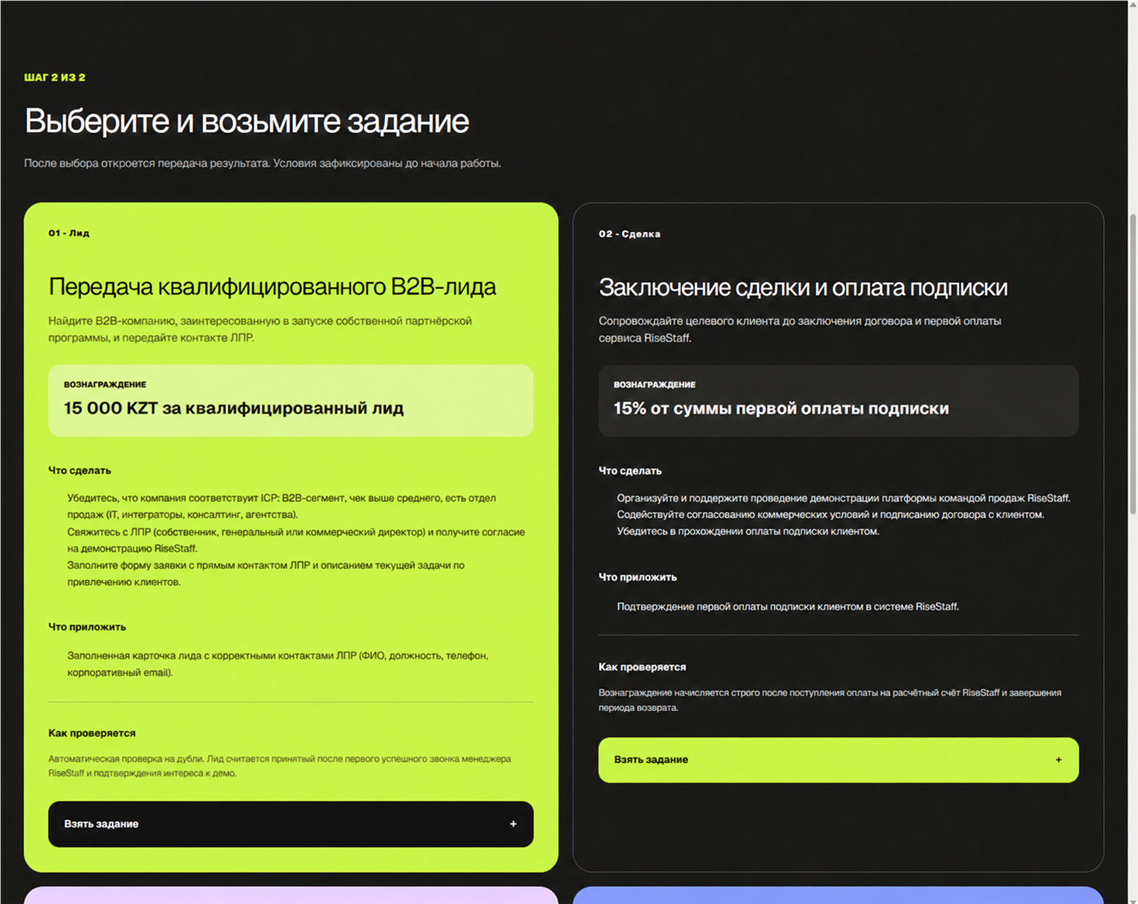
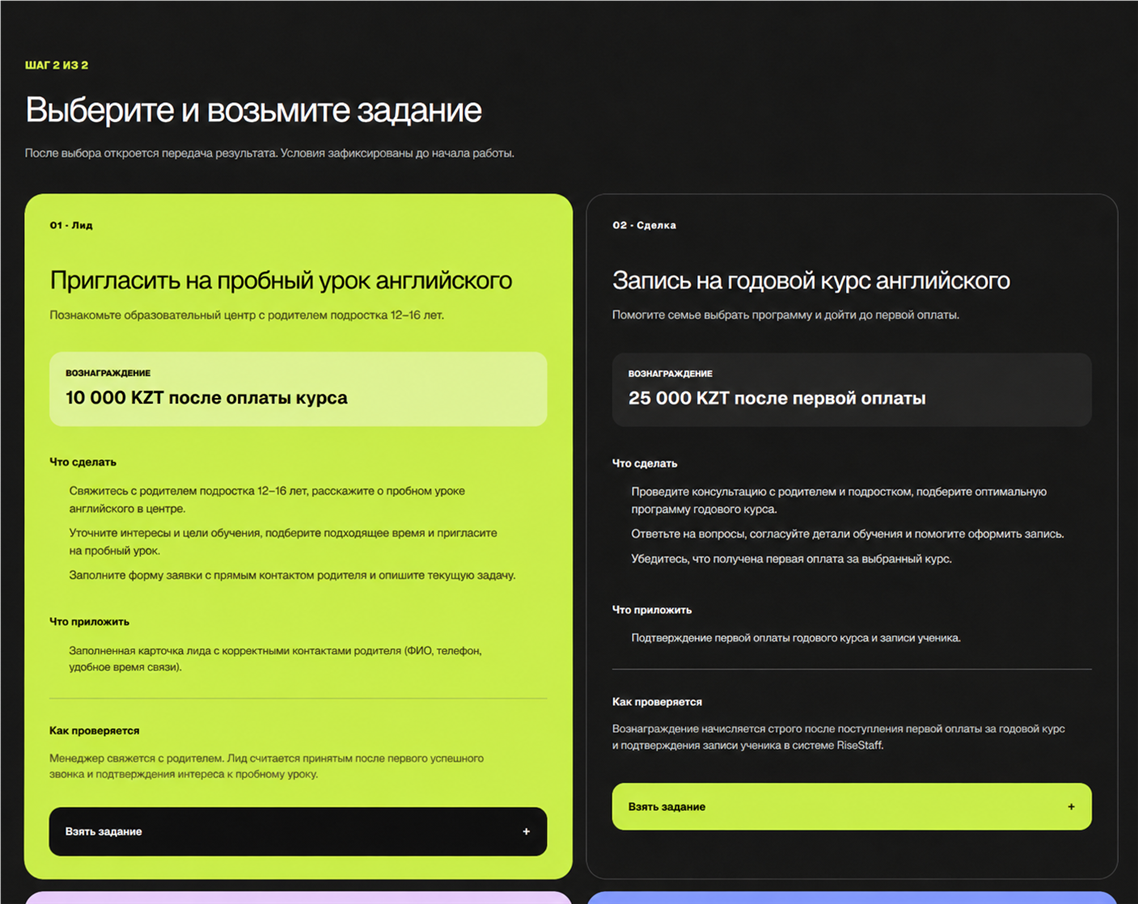
Refocus landing page on customer acquisition benefits

Changed region(s): [[0.0, 0.0, 1.0, 1.0], [0.0308, 0.6814, 0.4306, 0.7743]]

diff --git a/app/page.tsx b/app/page.tsx
@@ -8,9 +8,9 @@ import { CompanyApplicationForm } from "./company-application-form";
 import { agentUrl, companyUrl } from "../lib/public-origins";
 
 export const metadata: Metadata = {
-  title: { absolute: "RiseStaff — сервис для программы «приведи клиента»" },
+  title: { absolute: "RiseStaff — новые клиенты через рекомендации" },
   description:
-    "Назначьте вознаграждение за приведённого клиента. RiseStaff покажет, кто кого привёл, что стало с заявкой и сколько нужно выплатить.",
+    "Ваши клиенты и партнёры рекомендуют вас покупателям. Вы видите, кто привёл каждого клиента, что стало с заявкой и сколько нужно выплатить.",
   alternates: { canonical: "https://risestaff.kz/" },
 };
 
@@ -20,23 +20,23 @@ const missionCards = [
   {
     index: "01",
     type: "ЛИДЫ",
-    title: "Найдите компанию для внедрения CRM",
-    reward: "30 000 ₸ за встречу",
+    title: "Пригласите родителей на пробный урок",
+    reward: "10 000 ₸ за оплату курса",
     icon: "↗",
     tone: "lime",
   },
   {
     index: "02",
     type: "СДЕЛКИ",
-    title: "Приведите клиента до первой сделки",
-    reward: "10% от первой оплаты",
+    title: "Помогите записать ученика на годовой курс",
+    reward: "25 000 ₸ после первой оплаты",
     icon: "◎",
     tone: "dark",
   },
   {
     index: "03",
     type: "ИМИДЖ",
-    title: "Поделитесь кейсом в сообществе",
+    title: "Расскажите о курсе в родительском сообществе",
     reward: "5 000 ₸ после проверки",
     icon: "✦",
     tone: "blue",
@@ -44,8 +44,8 @@ const missionCards = [
   {
     index: "04",
     type: "ВОВЛЕЧЕНИЕ",
-    title: "Пройдите продуктовый квиз",
-    reward: "Откройте новые задания",
+    title: "Пригласите знакомых на открытый урок",
+    reward: "Бонус за участие",
     icon: "✓",
     tone: "paper",
   },
@@ -74,7 +74,7 @@ const faqs = [
   ],
   [
     "А если приведут клиента, который и так к нам шёл?",
-    "Вы решаете, принимать заявку или нет, и указываете причину. Правило можно написать заранее: например, не принимать компании, которые уже есть в вашей CRM.",
+    "Вы решаете, принимать заявку или нет, и указываете причину. Правило можно написать заранее: например, не засчитывать ученика, который уже оставил заявку в вашем центре.",
   ],
   [
     "А если посыпятся неподходящие заявки?",
@@ -114,7 +114,7 @@ const structuredData = {
       applicationCategory: "BusinessApplication",
       operatingSystem: "Web",
       inLanguage: "ru-KZ",
-      description: "Сервис для программы «приведи клиента — получи вознаграждение».",
+      description: "Помогает компаниям получать новых клиентов через рекомендации покупателей и партнёров.",
       featureList: [
         "Правила и вознаграждения за приведённых клиентов",
         "Кто привёл каждого клиента",
@@ -184,16 +184,15 @@ export default async function Home() {
         <div className="lp-orbit lp-orbit-two" aria-hidden="true" />
         <div className="lp-hero-copy">
           <div className="lp-kicker">
-            <span>●</span> СЕРВИС ДЛЯ ПРОГРАММЫ «ПРИВЕДИ КЛИЕНТА — ПОЛУЧИ ВОЗНАГРАЖДЕНИЕ»
+            <span>●</span> БОЛЬШЕ НОВЫХ КЛИЕНТОВ ИЗ ТЕХ, КТО УЖЕ ВАМ ДОВЕРЯЕТ
           </div>
           <h1>
-            Пусть ваши клиенты и партнёры приводят вам покупателей{" "}
-            <span className="lp-color-word">за вознаграждение.</span>
+            Превратите рекомендации в стабильный источник{" "}
+            <span className="lp-color-word">новых клиентов.</span>
           </h1>
           <p>
-            Один раз напишите, за какого клиента и сколько платите. Отправьте одну
-            ссылку своим людям. RiseStaff запомнит, кто кого привёл, что стало с заявкой
-            и сколько вы должны выплатить.
+            Ваши клиенты и партнёры рекомендуют вас знакомым. Вы получаете новые
+            контакты и сразу видите, кто привёл покупателя и сколько ему заплатить.
           </p>
           <p className="lp-hero-definition"><strong>Амбассадор</strong> — ваш клиент, партнёр или знакомый, который рекомендует вас подходящему покупателю.</p>
           <div
@@ -204,7 +203,7 @@ export default async function Home() {
               <b>ДЛЯ КОГО</b>Собственник, продажи и маркетинг
             </span>
             <span>
-              <b>ЧТО ПОЛУЧАЕТЕ</b>Заявки, сделки и суммы к выплате
+              <b>ЧТО ПОЛУЧАЕТЕ</b>Новых клиентов из уже знакомого круга
             </span>
           </div>
           <div className="lp-hero-actions">
@@ -213,7 +212,7 @@ export default async function Home() {
               href={dashboardHref}
               data-track="hero_primary"
             >
-              {user ? "Открыть кабинет" : "Запустить программу бесплатно"}
+              {user ? "Открыть кабинет" : "Запустить рекомендации бесплатно"}
               <span>↗</span>
             </a>
             <a className="lp-secondary" href="#how" data-track="hero_secondary">
@@ -225,13 +224,13 @@ export default async function Home() {
           </p>
           <div className="lp-hero-facts">
             <span>
-              <b>10</b> минут на черновик
+              <b>0 ₸</b> за отклонённые заявки
             </span>
             <span>
-              <b>0 ₸</b> аванс за заявки
+              <b>100%</b> решений остаются за вами
             </span>
             <span>
-              <b>1</b> ссылка для приглашённых
+              <b>1</b> список клиентов и выплат
             </span>
           </div>
         </div>
@@ -248,18 +247,18 @@ export default async function Home() {
           <div className="lp-demo-heading">
             <div>
               <small>ЗАЯВКА №14 · ПРИМЕР</small>
-              <h2>ТОО «Алтын Строй»</h2>
+              <h2>Образовательный центр Qadam</h2>
             </div>
             <span>НУЖНО РЕШЕНИЕ</span>
           </div>
           <div className="lp-lead-example">
             <dl>
-              <div><dt>Контакт</dt><dd>Асхат · +7 701 000 00 00</dd></div>
-              <div><dt>Кто привёл</dt><dd>Данияр Т. · ваш клиент</dd></div>
-              <div><dt>Что нужно</dt><dd>Внедрение CRM для отдела продаж</dd></div>
-              <div><dt>Сумма сделки</dt><dd>1 200 000 ₸</dd></div>
+              <div><dt>Контакт</dt><dd>Алия · +7 701 000 00 00</dd></div>
+              <div><dt>Кто привёл</dt><dd>Данияр Т. · родитель ученика</dd></div>
+              <div><dt>Что нужно</dt><dd>Годовой курс английского для подростка</dd></div>
+              <div><dt>Сумма сделки</dt><dd>600 000 ₸</dd></div>
             </dl>
-            <div><span>К ВЫПЛАТЕ ПО ВАШЕМУ ПРАВИЛУ</span><strong>120 000 ₸</strong></div>
+            <div><span>К ВЫПЛАТЕ ПО ВАШЕМУ ПРАВИЛУ</span><strong>25 000 ₸</strong></div>
             <nav aria-label="Действия с примером заявки"><button type="button">Не подходит</button><button type="button">Принять заявку</button></nav>
           </div>
           <div className="lp-demo-event">
@@ -332,16 +331,16 @@ export default async function Home() {
       <section className="lp-example lp-section" id="example">
         <div className="lp-section-intro">
           <span>ОДИН ПРИМЕР С ЦИФРАМИ</span>
-          <h2>Допустим, вы продаёте внедрение CRM за 1 200 000 ₸.</h2>
-          <p>Это пример расчёта, чтобы показать механику. Ваши суммы и правила могут быть другими.</p>
+          <h2>Допустим, образовательный центр продаёт годовой курс за 600 000 ₸.</h2>
+          <p>Центр хочет получать новых учеников через родителей, выпускников и преподавателей.</p>
         </div>
         <div className="lp-example-steps">
-          <article><b>01</b><h3>Написали правило</h3><p>«Приведи компанию, которая купит CRM. Платим 10% с первой оплаты».</p><strong>4 минуты</strong></article>
-          <article><b>02</b><h3>Отправили одну ссылку</h3><p>Клиентам, двум партнёрам и знакомому консультанту. Одно сообщение в WhatsApp.</p><strong>14 человек</strong></article>
+          <article><b>01</b><h3>Назначили вознаграждение</h3><p>«Приведи ученика на годовой курс. Платим 25 000 ₸ после первой оплаты».</p><strong>25 000 ₸ за ученика</strong></article>
+          <article><b>02</b><h3>Отправили одну ссылку</h3><p>Родителям учеников, выпускникам и преподавателям. Одно сообщение в WhatsApp.</p><strong>30 человек</strong></article>
           <article><b>03</b><h3>Получили заявки</h3><p>По каждой сразу видны контакт, комментарий, дата и кто привёл.</p><strong>6 заявок</strong></article>
-          <article><b>04</b><h3>Приняли подходящих</h3><p>Если две сделки закрылись, компания получила 2 400 000 ₸ выручки.</p><strong>240 000 ₸ к выплате</strong></article>
+          <article><b>04</b><h3>Получили новых учеников</h3><p>Четыре семьи оплатили годовую программу. Центр получил 2 400 000 ₸ выручки.</p><strong>100 000 ₸ к выплате</strong></article>
         </div>
-        <div className="lp-example-total"><span>В ЭТОМ ПРИМЕРЕ</span><strong>Канал принёс 2 400 000 ₸. Вознаграждения — 240 000 ₸. Аванса нет.</strong></div>
+        <div className="lp-example-total"><span>В ЭТОМ ПРИМЕРЕ</span><strong>Рекомендации принесли 2 400 000 ₸. Вознаграждения — 100 000 ₸. За неподходящие заявки центр не платил.</strong></div>
       </section>
 
       <section className="lp-ai lp-section" id="product">
@@ -353,7 +352,7 @@ export default async function Home() {
           </div>
           <div className="lp-screen-wrap">
             <img
-              src="/company-cabinet.png?v=20260818"
+              src="/company-cabinet.png?v=20260901"
               width="1440"
               height="900"
               loading="lazy"
@@ -367,16 +366,16 @@ export default async function Home() {
           </div>
         </figure>
         <div className="lp-ai-copy">
-          <span>ОДИН СПИСОК ДЛЯ КОМПАНИИ</span>
-          <h2>Вы не спорите с партнёром, кто привёл клиента.</h2>
+          <span>ВЫРУЧКА ОТ РЕКОМЕНДАЦИЙ ПОД КОНТРОЛЕМ</span>
+          <h2>Вы знаете, кто приводит клиентов и сколько приносит этот канал.</h2>
           <p>
             Каждая заявка хранит контакт, дату, имя рекомендателя и ваше решение.
             Принятые суммы сразу попадают в список выплат.
           </p>
           <ul>
-            <li>Сразу видно, что требует вашего решения</li>
-            <li>Причина отказа не теряется в переписке</li>
-            <li>По каждой сделке видно, кому и сколько вы должны</li>
+            <li>Новые контакты не теряются в WhatsApp</li>
+            <li>Вы платите только за результат по своим правилам</li>
+            <li>В любой момент видны выручка и сумма вознаграждений</li>
           </ul>
           <small>На изображении — рабочий кабинет компании RiseStaff.</small>
         </div>
@@ -385,7 +384,7 @@ export default async function Home() {
       <section className="lp-how lp-section" id="how">
         <div className="lp-section-intro light">
           <span>КАК ЭТО РАБОТАЕТ</span>
-          <h2>От правила до первой заявки — четыре понятных шага.</h2>
+          <h2>Подключите первых рекомендателей за четыре понятных шага.</h2>
         </div>
         <span className="lp-swipe-hint">Листайте шаги →</span>
         <div className="lp-steps">
@@ -475,7 +474,7 @@ export default async function Home() {
         <i className="lp-motion-orbit orbit-lime" aria-hidden="true" />
         <div className="lp-partner-copy">
           <span>ЧТО ВИДИТ ТОТ, КТО ВАС РЕКОМЕНДУЕТ</span>
-          <h2>Человеку не должно быть ни стыдно, ни мутно.</h2>
+          <h2>Люди охотнее рекомендуют вас, когда правила понятны.</h2>
           <p>
             Он видит, кого вы ищете, сколько платите и что стало с его заявкой.
             Кабинет открывается по ссылке в браузере.
@@ -493,7 +492,7 @@ export default async function Home() {
           </div>
           <div className="lp-screen-wrap">
             <img
-              src="/agent-cabinet.png?v=20260818"
+              src="/agent-cabinet.png?v=20260901"
               width="1440"
               height="900"
               loading="lazy"
@@ -547,7 +546,7 @@ export default async function Home() {
       <section className="lp-offer lp-section" id="offer">
         <div className="lp-offer-copy">
           <span>ПИЛОТНЫЙ ЗАПУСК · ТОЛЬКО 20 КОМПАНИЙ</span>
-          <h2>Первую программу мы соберём вместе с вами.</h2>
+          <h2>Запустите рекомендации без долгой настройки.</h2>
           <p>
             Разберём ваш продукт, напишем правила и подготовим ссылку. За настройку
             денег не берём — нам нужны ваши первые заявки и честная обратная связь.
@@ -602,7 +601,7 @@ export default async function Home() {
       <section className="lp-payments lp-section" id="payments">
         <div className="lp-section-intro">
           <span>ДЕНЬГИ И ОФОРМЛЕНИЕ В КАЗАХСТАНЕ</span>
-          <h2>RiseStaff считает сумму. Деньги вы переводите напрямую.</h2>
+          <h2>Вы заранее знаете, кому, за что и сколько платить.</h2>
           <p>Сервис не берёт процент с вознаграждений и не выступает стороной вашей выплаты.</p>
         </div>
         <div className="lp-payment-grid">
@@ -640,12 +639,12 @@ export default async function Home() {
             </i>
           ))}
         </div>
-        <span>ПЕРВАЯ ЗАЯВКА МОЖЕТ ПРИЙТИ УЖЕ НА ЭТОЙ НЕДЕЛЕ</span>
+        <span>ПЕРВЫЕ РЕКОМЕНДАЦИИ МОГУТ ПРИЙТИ УЖЕ НА ЭТОЙ НЕДЕЛЕ</span>
         <h2>
-          Напишите, за какого клиента вы готовы заплатить и сколько.
+          Подключите тех, кто уже готов рекомендовать вашу компанию.
         </h2>
         <p>
-          Ссылку, кабинет и подсчёт выплат RiseStaff берёт на себя.
+          Получайте новые контакты, принимайте подходящих и платите только за результат.
         </p>
         <div className="lp-final-actions">
           <a className="lp-primary" href={dashboardHref} data-track="final_primary">{user ? "Открыть кабинет" : "Запустить программу бесплатно"}<span>↗</span></a>
@@ -667,7 +666,7 @@ export default async function Home() {
             <span>RiseStaff</span>
           </Link>
           <p>
-            Программа «приведи клиента» для вашей компании.
+            Новые клиенты через рекомендации тех, кто вам доверяет.
             <br />
             Казахстан ·{" "}
             <a href={whatsappHref} target="_blank" rel="noreferrer">

diff --git a/lib/kazakh-translations.ts b/lib/kazakh-translations.ts
@@ -1,4 +1,49 @@
 const exact: Record<string, string> = {
+  // Benefit-led landing
+  "БОЛЬШЕ НОВЫХ КЛИЕНТОВ ИЗ ТЕХ, КТО УЖЕ ВАМ ДОВЕРЯЕТ": "СІЗГЕ СЕНЕТІН АДАМДАР АРҚЫЛЫ КӨБІРЕК ЖАҢА КЛИЕНТ",
+  "Превратите рекомендации в стабильный источник": "Ұсыныстарды тұрақты",
+  "новых клиентов.": "жаңа клиенттер көзіне айналдырыңыз.",
+  "Ваши клиенты и партнёры рекомендуют вас знакомым. Вы получаете новые контакты и сразу видите, кто привёл покупателя и сколько ему заплатить.": "Клиенттеріңіз бен серіктестеріңіз сізді таныстарына ұсынады. Сіз жаңа байланыстар алып, сатып алушыны кім әкелгенін және оған қанша төлеу керегін бірден көресіз.",
+  "Новых клиентов из уже знакомого круга": "Таныс ортадан жаңа клиенттер",
+  "Запустить рекомендации бесплатно": "Ұсыныстарды тегін іске қосу",
+  "0 ₸ за отклонённые заявки": "Қабылданбаған өтінімдер үшін 0 ₸",
+  "100% решений остаются за вами": "Шешімдердің 100%-ы өзіңізде",
+  "1 список клиентов и выплат": "Клиенттер мен төлемдердің 1 тізімі",
+  "Пригласите родителей на пробный урок": "Ата-аналарды сынақ сабағына шақырыңыз",
+  "10 000 ₸ за оплату курса": "Курс төлемі үшін 10 000 ₸",
+  "Помогите записать ученика на годовой курс": "Оқушыны жылдық курсқа жазуға көмектесіңіз",
+  "25 000 ₸ после первой оплаты": "Алғашқы төлемнен кейін 25 000 ₸",
+  "Расскажите о курсе в родительском сообществе": "Ата-аналар қауымдастығында курс туралы айтыңыз",
+  "Пригласите знакомых на открытый урок": "Таныстарыңызды ашық сабаққа шақырыңыз",
+  "Бонус за участие": "Қатысқаны үшін бонус",
+  "Образовательный центр Qadam": "Qadam білім беру орталығы",
+  "Алия · +7 701 000 00 00": "Әлия · +7 701 000 00 00",
+  "Данияр Т. · родитель ученика": "Данияр Т. · оқушының ата-анасы",
+  "Годовой курс английского для подростка": "Жасөспірімге арналған жылдық ағылшын курсы",
+  "Допустим, образовательный центр продаёт годовой курс за 600 000 ₸.": "Білім беру орталығы жылдық курсты 600 000 ₸-ге сатады делік.",
+  "Центр хочет получать новых учеников через родителей, выпускников и преподавателей.": "Орталық ата-аналар, түлектер және мұғалімдер арқылы жаңа оқушылар алғысы келеді.",
+  "Назначили вознаграждение": "Сыйақыны белгіледі",
+  "«Приведи ученика на годовой курс. Платим 25 000 ₸ после первой оплаты».": "«Оқушыны жылдық курсқа әкел. Алғашқы төлемнен кейін 25 000 ₸ төлейміз».",
+  "25 000 ₸ за ученика": "Бір оқушы үшін 25 000 ₸",
+  "Родителям учеников, выпускникам и преподавателям. Одно сообщение в WhatsApp.": "Оқушылардың ата-аналарына, түлектерге және мұғалімдерге. WhatsApp-та бір хабарлама.",
+  "30 человек": "30 адам",
+  "Получили новых учеников": "Жаңа оқушылар алды",
+  "Четыре семьи оплатили годовую программу. Центр получил 2 400 000 ₸ выручки.": "Төрт отбасы жылдық бағдарламаны төледі. Орталық 2 400 000 ₸ табыс алды.",
+  "100 000 ₸ к выплате": "Төлеуге 100 000 ₸",
+  "Рекомендации принесли 2 400 000 ₸. Вознаграждения — 100 000 ₸. За неподходящие заявки центр не платил.": "Ұсыныстар 2 400 000 ₸ әкелді. Сыйақылар — 100 000 ₸. Сәйкес келмейтін өтінімдер үшін орталық төлемеді.",
+  "ВЫРУЧКА ОТ РЕКОМЕНДАЦИЙ ПОД КОНТРОЛЕМ": "ҰСЫНЫСТАРДАН ТҮСКЕН ТАБЫС БАҚЫЛАУДА",
+  "Вы знаете, кто приводит клиентов и сколько приносит этот канал.": "Клиенттерді кім әкелетінін және бұл арна қанша табыс беретінін білесіз.",
+  "Новые контакты не теряются в WhatsApp": "Жаңа байланыстар WhatsApp-та жоғалмайды",
+  "Вы платите только за результат по своим правилам": "Өз ережеңіз бойынша тек нәтиже үшін төлейсіз",
+  "В любой момент видны выручка и сумма вознаграждений": "Табыс пен сыйақы сомасы кез келген сәтте көрінеді",
+  "Подключите первых рекомендателей за четыре понятных шага.": "Алғашқы ұсынушыларды төрт түсінікті қадаммен қосыңыз.",
+  "Люди охотнее рекомендуют вас, когда правила понятны.": "Ережелер түсінікті болса, адамдар сізді ықыласпен ұсынады.",
+  "Запустите рекомендации без долгой настройки.": "Ұсыныстарды ұзақ баптаусыз іске қосыңыз.",
+  "Вы заранее знаете, кому, за что и сколько платить.": "Кімге, не үшін және қанша төлеу керегін алдын ала білесіз.",
+  "ПЕРВЫЕ РЕКОМЕНДАЦИИ МОГУТ ПРИЙТИ УЖЕ НА ЭТОЙ НЕДЕЛЕ": "АЛҒАШҚЫ ҰСЫНЫСТАР ОСЫ АПТАДА-АҚ КЕЛУІ МҮМКІН",
+  "Подключите тех, кто уже готов рекомендовать вашу компанию.": "Компанияңызды ұсынуға дайын адамдарды қосыңыз.",
+  "Получайте новые контакты, принимайте подходящих и платите только за результат.": "Жаңа байланыстар алыңыз, сәйкесін қабылдаңыз және тек нәтиже үшін төлеңіз.",
+  "Новые клиенты через рекомендации тех, кто вам доверяет.": "Сізге сенетін адамдардың ұсыныстары арқылы жаңа клиенттер.",
   // Shared navigation and actions
   "Продукт": "Өнім",
   "Как работает": "Қалай жұмыс істейді",
@@ -172,7 +217,7 @@ const exact: Record<string, string> = {
   "ПЕРВАЯ ПРОГРАММА НАЧИНАЕТСЯ С ОДНОЙ ССЫЛКИ": "АЛҒАШҚЫ БАҒДАРЛАМА БІР СІЛТЕМЕДЕН БАСТАЛАДЫ",
   "Дайте агентам понятный повод рекомендовать вас.": "Агенттерге сізді ұсынуға түсінікті себеп беріңіз.",
   "Получите 50 000 AI-кредитов на старте, настройте первую программу и пригласите агентов по одной ссылке.": "Бастапқыда 50 000 AI-кредит алып, алғашқы бағдарламаны баптаңыз және агенттерді бір сілтеме арқылы шақырыңыз.",
-  "Агентские продажи по одной ссылке.": "Бір сілтеме арқылы агенттік сату.",
+  "Новые клиенты через рекомендации.": "Ұсыныстар арқылы жаңа клиенттер.",
 
   // Landing FAQ
   "RiseStaff — это агентская или реферальная программа?": "RiseStaff — агенттік пе, әлде рефералдық бағдарлама ма?",

diff --git a/app/layout.tsx b/app/layout.tsx
@@ -25,13 +25,13 @@ const geistMono = Geist_Mono({
   subsets: ["latin"],
 });
 
-const description = "Назначьте вознаграждение за приведённого клиента. RiseStaff покажет, кто кого привёл, что стало с заявкой и сколько нужно выплатить.";
+const description = "Ваши клиенты и партнёры рекомендуют вас покупателям. Вы видите, кто привёл каждого клиента, что стало с заявкой и сколько нужно выплатить.";
 
 export const metadata: Metadata = {
   metadataBase: new URL("https://risestaff.kz"),
   applicationName: "RiseStaff",
   title: {
-    default: "RiseStaff — сервис для программы «приведи клиента»",
+    default: "RiseStaff — новые клиенты через рекомендации",
     template: "%s · RiseStaff",
   },
   description,
@@ -57,17 +57,17 @@ export const metadata: Metadata = {
   openGraph: {
     siteName: "RiseStaff",
     locale: "ru_KZ",
-    title: "RiseStaff — сервис для программы «приведи клиента»",
+    title: "RiseStaff — новые клиенты через рекомендации",
     description,
     type: "website",
     url: "https://risestaff.kz/",
-    images: [{ url: "https://risestaff.kz/og.png", width: 1731, height: 909, alt: "RiseStaff — сервис для программы «приведи клиента»" }],
+    images: [{ url: "https://risestaff.kz/og.png?v=20260901", width: 1731, height: 909, alt: "RiseStaff — новые клиенты через рекомендации" }],
   },
   twitter: {
     card: "summary_large_image",
-    title: "RiseStaff — сервис для программы «приведи клиента»",
+    title: "RiseStaff — новые клиенты через рекомендации",
     description,
-    images: ["https://risestaff.kz/og.png"],
+    images: ["https://risestaff.kz/og.png?v=20260901"],
   },
 };
 

diff --git a/app/dashboard/methodologist/methodologist-editor.tsx b/app/dashboard/methodologist/methodologist-editor.tsx
@@ -53,7 +53,7 @@ export function MethodologistEditor({ initialItems, initialBrief, tokenBalance, 
     const data = await response.json() as { needsInput?: boolean; message?: string; summary?: string; questions?: Question[]; uncertainties?: string[]; brief?: MethodologyBrief; tokenBalance?: number; error?: string };
     if (!response.ok || !data.brief) {
       setAssistantMessage(data.error || "Мне не удалось собрать достаточно данных автоматически. Давайте уточним главное.");
-      setQuestions([{ id: "recovery", label: "Расскажите своими словами", question: "Что вы продаёте, кому это полезно и к какому следующему шагу должен привести агент?", placeholder: "Например: внедрение CRM для строительных компаний; агент должен познакомить нас с собственником…" }]);
+      setQuestions([{ id: "recovery", label: "Расскажите своими словами", question: "Что вы продаёте, кому это полезно и к какому следующему шагу должен привести агент?", placeholder: "Например: годовой курс английского для подростков; агент должен познакомить нас с родителем ученика…" }]);
       setQuestionIndex(0); setFlow("questions"); return;
     }
     setBrief(data.brief); setAssistantMessage(data.message || "Проверьте, правильно ли я понял задачу."); setSummary(data.summary || ""); setUncertainties(data.uncertainties || []);
